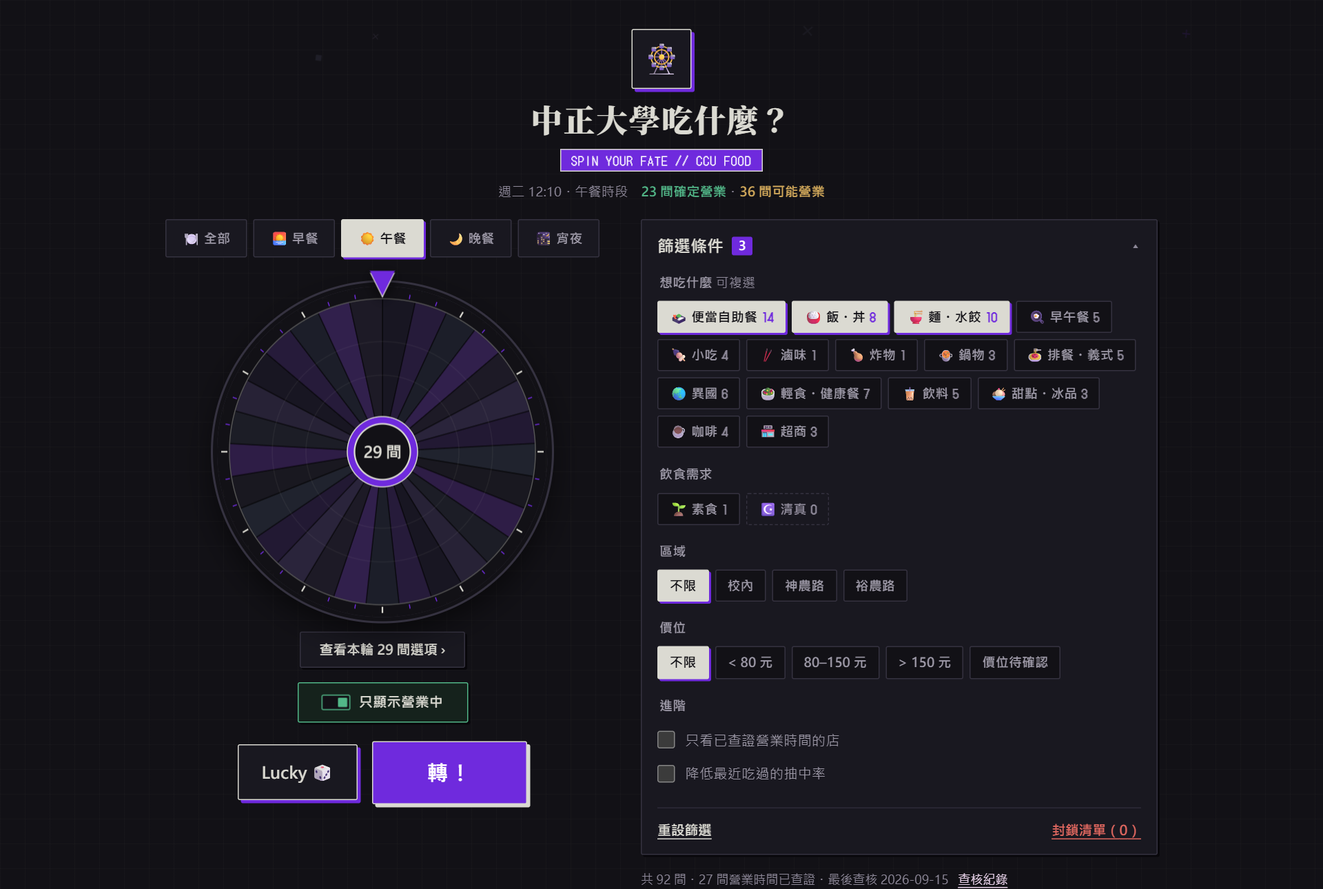
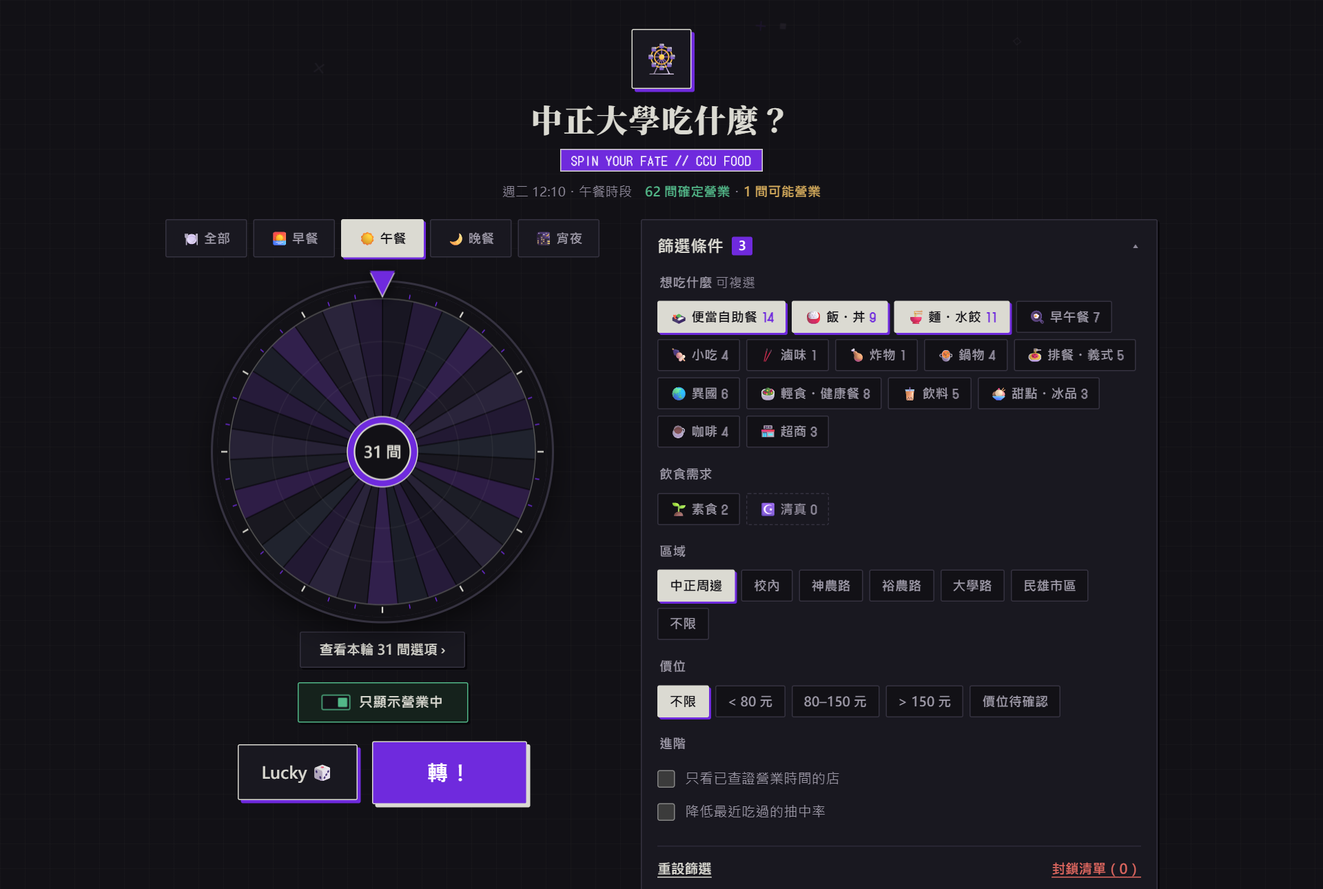
更新文件：查核紀錄、README、截圖與資料維護規則
- docs/restaurant-audit.md 改為 2026-10-21 版，記錄來源優先順序、
  範圍、匯入方法、例外與逐店結果；上一版移到 docs/archive/
- README 與 CLAUDE.md 反映新的區域、來源規則與餐車資料
- 重新產生截圖，新增流動餐車截圖

diff --git a/docs/restaurant-audit.md b/docs/restaurant-audit.md
@@ -1,0 +1,263 @@
+# 餐廳資料查核 — 2026-10-21
+
+共 204 間：中正周邊 92 間、民雄市區 112 間。其中 194 間的營業時間有來源（校方或店家公開頁面 23 間，Google 地圖商家資訊 171 間），10 間仍待確認。另外列出 4 台流動餐車，不放進轉盤。
+
+上一輪（2026-09-10）的逐店紀錄移到 [archive/restaurant-audit-2026-09-10.md](archive/restaurant-audit-2026-09-10.md)。
+
+## 來源優先順序
+
+1. **校方飲食資訊**（校內店家）
+2. **店家官網、品牌門市頁、店家粉專或 IG**
+3. **Google 地圖商家資訊**：前兩者沒有每週時段時才採用，結果卡上標明「Google 地圖商家資訊」並附商家頁連結
+4. **不採用**：外送平台時段（只代表外送服務時間）、沒有更新日期的聚合頁
+
+已經有校方或店家完整時刻表的店，這次沒有用 Google 覆蓋。品牌頁只確認店名地址、沒有每週時段的店（TEA'S、茶湯會、早叄、早安山丘），時段改用 Google，原本的品牌來源寫在 `verification.note`。
+
+## 範圍
+
+- **中正周邊**：校內、神農路、裕農路、大學路，就是原本的 92 間，這次重新查核時段與地址。轉盤預設只抽這一區。
+- **民雄市區**：以麥當勞嘉義民雄餐廳（建國路一段 18 號）為中心，方圓約 1 公里內、Google 評論至少 200 則的店。使用者選「民雄市區」或「不限」才會出現，中正周邊沒有店營業時，「一鍵放寬」也會提議擴大到市區。
+
+## 方法
+
+- 每間店打開 Google 地圖商家頁，讀取每週營業時間、地址、電話與是否「暫時關閉」，商家頁連結存成 `mapUrl`（`https://maps.google.com/?cid=…`）。
+- 時段轉成 `HH:MM-HH:MM`。凌晨打烊寫成跨夜時段（例如 `17:00-02:00`）；Google 把「17:00 開到隔天 11:00」拆成「00:00–11:00、17:00–24:00」兩段時，匯入時合併成 `17:00-11:00`，避免午夜被誤判為「即將打烊」。
+- `meals`（供餐時段）依時刻表重新推算：營業時間與早餐 06–10、午餐 11–14、晚餐 17–20、宵夜 21:30–02 任一時窗重疊至少 60 分鐘，就算有供應該餐。
+- 有完整時刻表的店移除 `legacyOpenHours`（舊的未查證時刻表），避免兩份資料不一致。
+- 民雄市區店家的價位：Google 有標示人均價格的才填（`expensive` 並附 `priceNote`），其餘標為「價位待確認」，不自行估計。
+
+## 例外與未解決
+
+- **比對錯誤，不採用**：佳豐生活美食坊（校內）在 Google 對到建國路的「嘉豐鐵板燒」，松屋食坊對到已暫時關閉的「阿松の店」。兩間仍以校方資料為準；嘉豐鐵板燒另外以民雄市區店家收錄。
+- **Google 沒有列出時段**：月亮與貓（看 IG cindy._.handmade）、仙草奶酪（看 IG ccu_grass_jelly）、小栗鼠cafe、八方雲集中大店、韓金湯匙（店名標示 24 Hrs 無人店，但沒有每週時刻表，只推估「可能營業」），以及市區的嘉鄉羊鵝肉、松林庭園咖啡簡餐、鶴茶樓、澎湃先生古早味蛋糕、可以可以地瓜球。這些店不會出現在「只顯示營業中」的轉盤上。
+- **暫時關閉，不收錄**：紅樓麻辣燙、金大尉 2.0 韓式鐵板燒烤肉吃到飽（市區候選）。
+- **來源衝突**：早安山丘中正大學店的品牌頁列 07:00–15:00，Google 列每天 07:00–14:30，採用較早的結束時間。
+- **區域更正**：伊卓島（裕農一街）改為裕農路；三街亭便當、123活力早餐屋、誠石火鍋、大學路生煎包改為大學路。
+- Google 時段由店家或使用者維護，可能比現況舊；臨時店休、寒暑假與國定假日仍以店家公告為準。
+
+## 流動餐車
+
+餐車沒有固定時刻表，所以不參與營業判斷、也不放進轉盤，只在側欄「流動餐車」列出常出現的位置、出攤規律與追蹤方式。資料來自 Dcard 中正大學板的討論，每台都附原文連結與貼文日期。
+
+- **烤雞肉飯餐車**（神農路）：中吃與大吃之間那條橫向小路；不固定，大約晚上 8、9 點出攤。來源：[Dcard 中正大學板](https://www.dcard.tw/f/ccu/p/261074960)，2026-03-13
+- **食良 臭豆腐麵線餐車**（神農路）：大吃楊家豆漿那一側的停車場；晚上出攤，通常週二、週六（有時週六改週五）。來源：[Dcard 中正大學板](https://www.dcard.tw/f/ccu/p/260446325)，2025-12-11
+- **關東煮餐車**（神農路）：學校大門附近的廣場、大吃全家旁；不固定。來源：[Dcard 中正大學板](https://www.dcard.tw/f/ccu/p/258577478)，2025-04-17
+- **現烤麵包餐車**（民雄市區）：阿吉麵攤旁（民雄市區）；不固定。來源：[Dcard 中正大學板](https://www.dcard.tw/f/ccu/p/258565460)，2025-04-16
+
+學生會不定期在校內舉辦「餐車日」，攤商名單公布在學生會 IG（[Dcard 討論](https://www.dcard.tw/f/ccu/p/260387131)）。活動性質不固定，沒有收錄成個別餐車。
+
+## 逐店結果
+
+### 中正周邊
+
+| ID | 店名 | 區域 | 本次結果 | 來源 |
+| --- | --- | --- | --- | --- |
+| 1 | 全家便利商店(活動中心店) | 校內 | 沿用校方／店家公開時段 | [中正大學飲食資訊](https://www.ccu.edu.tw/p/406-1000-25657,r3205.php?Lang=zh-tw) |
+| 2 | 微風蔬果 | 校內 | 沿用校方／店家公開時段 | [中正大學飲食資訊](https://www.ccu.edu.tw/p/406-1000-25657,r3205.php?Lang=zh-tw) |
+| 3 | 佳豐生活美食坊 | 校內 | 沿用校方／店家公開時段 | [中正大學飲食資訊](https://www.ccu.edu.tw/p/406-1000-25657,r3205.php?Lang=zh-tw) |
+| 4 | 婆媳麵食部 | 校內 | 沿用校方／店家公開時段 | [中正大學飲食資訊](https://www.ccu.edu.tw/p/406-1000-25657,r3205.php?Lang=zh-tw) |
+| 5 | 珍品餐館 | 校內 | 沿用校方／店家公開時段 | [中正大學飲食資訊](https://www.ccu.edu.tw/p/406-1000-25657,r3205.php?Lang=zh-tw) |
+| 6 | 路易莎咖啡(嘉義中正大學門市) | 校內 | 沿用校方／店家公開時段 | [中正大學飲食資訊](https://www.ccu.edu.tw/p/406-1000-25657,r3205.php?Lang=zh-tw) |
+| 7 | 湖畔沙龍(A3生活圈店) | 校內 | 沿用校方／店家公開時段 | [中正大學飲食資訊](https://www.ccu.edu.tw/p/406-1000-25657,r3205.php?Lang=zh-tw) |
+| 8 | 元氣早餐店 | 校內 | 沿用校方／店家公開時段 | [中正大學飲食資訊](https://www.ccu.edu.tw/p/406-1000-25657,r3205.php?Lang=zh-tw) |
+| 9 | 松屋食坊 | 校內 | 沿用校方／店家公開時段 | [中正大學飲食資訊](https://www.ccu.edu.tw/p/406-1000-25657,r3205.php?Lang=zh-tw) |
+| 10 | 食凡(EB1) | 校內 | 沿用校方／店家公開時段 | [中正大學飲食資訊](https://www.ccu.edu.tw/p/406-1000-25657,r3205.php?Lang=zh-tw) |
+| 11 | 全家便利商店(共同教室大樓店) | 校內 | 沿用校方／店家公開時段 | [中正大學飲食資訊](https://www.ccu.edu.tw/p/406-1000-25657,r3205.php?Lang=zh-tw) |
+| 12 | 全家便利商店(荊竹園/學人宿舍店) | 校內 | 沿用校方／店家公開時段 | [中正大學飲食資訊](https://www.ccu.edu.tw/p/406-1000-25657,r3205.php?Lang=zh-tw) |
+| 13 | 基地咖啡 | 校內 | 沿用校方／店家公開時段 | [中正大學飲食資訊](https://www.ccu.edu.tw/p/406-1000-25657,r3205.php?Lang=zh-tw) |
+| 14 | 楊家豆漿 | 神農路 | 已依 Google 地圖更新時刻表 | [Google 地圖商家資訊](https://maps.google.com/?cid=4481657162940129259) |
+| 15 | 鮮盛食堂 | 神農路 | 已依 Google 地圖更新時刻表 | [Google 地圖商家資訊](https://maps.google.com/?cid=12650057201675339670) |
+| 16 | 丼飽處x味自慢 | 神農路 | 沿用校方／店家公開時段 | [丼飽處店家網站](https://dongbaochu.webflow.io/) |
+| 17 | 牛筋伯爵 | 神農路 | 已依 Google 地圖更新時刻表 | [Google 地圖商家資訊](https://maps.google.com/?cid=16813179358634308817) |
+| 18 | ㄎㄎ韓食 | 神農路 | 已依 Google 地圖更新時刻表 | [Google 地圖商家資訊](https://maps.google.com/?cid=359410135548983401) |
+| 19 | 洪媽媽泰式簡餐 | 神農路 | 已依 Google 地圖更新時刻表 | [Google 地圖商家資訊](https://maps.google.com/?cid=290577023717785840) |
+| 20 | 西貢小吃 | 神農路 | 已依 Google 地圖更新時刻表 | [Google 地圖商家資訊](https://maps.google.com/?cid=643800234722093822) |
+| 21 | 薩克廚房 | 神農路 | 已依 Google 地圖更新時刻表 | [Google 地圖商家資訊](https://maps.google.com/?cid=7081079715265422926) |
+| 22 | 農閒時刻的粥 | 神農路 | 已依 Google 地圖更新時刻表 | [Google 地圖商家資訊](https://maps.google.com/?cid=15411751897971792404) |
+| 23 | 豪緯麵食館 | 神農路 | 已依 Google 地圖更新時刻表 | [Google 地圖商家資訊](https://maps.google.com/?cid=16862628929911731442) |
+| 24 | 地中海美食 | 神農路 | 已依 Google 地圖更新時刻表 | [Google 地圖商家資訊](https://maps.google.com/?cid=16735562923641391234) |
+| 25 | 中正海南雞飯 | 神農路 | 已依 Google 地圖更新時刻表 | [Google 地圖商家資訊](https://maps.google.com/?cid=6298370754352066164) |
+| 26 | 榕樹下古早味香菇肉羹麵 | 神農路 | 已依 Google 地圖更新時刻表 | [Google 地圖商家資訊](https://maps.google.com/?cid=535586748654286163) |
+| 27 | Amina's Kitchen | 神農路 | 已依 Google 地圖更新時刻表 | [Google 地圖商家資訊](https://maps.google.com/?cid=3824409005718822547) |
+| 28 | 越式炒泡麵 | 神農路 | 已依 Google 地圖更新時刻表 | [Google 地圖商家資訊](https://maps.google.com/?cid=15107057816747550653) |
+| 29 | 蘭姐手工水餃 | 神農路 | 已依 Google 地圖更新時刻表 | [Google 地圖商家資訊](https://maps.google.com/?cid=11006399432139251410) |
+| 30 | 嘉農小館 | 神農路 | 已依 Google 地圖更新時刻表 | [Google 地圖商家資訊](https://maps.google.com/?cid=9560331378579886293) |
+| 31 | 阿梅簡餐便當 | 神農路 | 已依 Google 地圖更新時刻表 | [Google 地圖商家資訊](https://maps.google.com/?cid=8675573065899011313) |
+| 32 | 渝香園簡餐便當 | 神農路 | 已依 Google 地圖更新時刻表 | [Google 地圖商家資訊](https://maps.google.com/?cid=10538879760333088249) |
+| 33 | 二口食堂 | 神農路 | 已依 Google 地圖更新時刻表 | [Google 地圖商家資訊](https://maps.google.com/?cid=12316446496011096797) |
+| 34 | 豪記滷味 | 神農路 | 已依 Google 地圖更新時刻表 | [Google 地圖商家資訊](https://maps.google.com/?cid=11475678776190246157) |
+| 35 | 溫家冷滷味 | 神農路 | 已依 Google 地圖更新時刻表 | [Google 地圖商家資訊](https://maps.google.com/?cid=10760419064564157884) |
+| 36 | 魯都香加熱式滷味 | 神農路 | 已依 Google 地圖更新時刻表 | [Google 地圖商家資訊](https://maps.google.com/?cid=13333018575458852206) |
+| 37 | 十畝田滷味 | 神農路 | 已依 Google 地圖更新時刻表 | [Google 地圖商家資訊](https://maps.google.com/?cid=13295422634066985352) |
+| 38 | 財哥鹹酥雞(神農路) | 神農路 | 已依 Google 地圖更新時刻表 | [Google 地圖商家資訊](https://maps.google.com/?cid=17462166941288612055) |
+| 39 | 中正雞場 | 神農路 | 已依 Google 地圖更新時刻表 | [Google 地圖商家資訊](https://maps.google.com/?cid=17914792469007424243) |
+| 40 | 海派鹽酥雞 | 神農路 | 已依 Google 地圖更新時刻表 | [Google 地圖商家資訊](https://maps.google.com/?cid=8141166164113762049) |
+| 41 | 蜂炸雞超級大雞排 | 神農路 | 已依 Google 地圖更新時刻表 | [Google 地圖商家資訊](https://maps.google.com/?cid=9316781803159605078) |
+| 42 | 懷念鹽酥雞 | 神農路 | 已依 Google 地圖更新時刻表 | [Google 地圖商家資訊](https://maps.google.com/?cid=14214458723826679645) |
+| 43 | 墨醬章魚燒 | 神農路 | 已依 Google 地圖更新時刻表 | [Google 地圖商家資訊](https://maps.google.com/?cid=16839558359542517975) |
+| 44 | Tea's原味(中正大學店) | 神農路 | 已依 Google 地圖更新時刻表 | [Google 地圖商家資訊](https://maps.google.com/?cid=1854872479724878930) |
+| 45 | 鮮茶道(中正大學店) | 神農路 | 已依 Google 地圖更新時刻表 | [Google 地圖商家資訊](https://maps.google.com/?cid=7656842165945212587) |
+| 46 | 七里香 | 神農路 | 已依 Google 地圖更新時刻表 | [Google 地圖商家資訊](https://maps.google.com/?cid=9208949190605389442) |
+| 47 | 果真現打真果汁 | 神農路 | 已依 Google 地圖更新時刻表 | [Google 地圖商家資訊](https://maps.google.com/?cid=12879399247674298494) |
+| 48 | 茶湯會(民雄神農店) | 神農路 | 已依 Google 地圖更新時刻表 | [Google 地圖商家資訊](https://maps.google.com/?cid=9226671162415239409) |
+| 49 | 巧味果汁 | 神農路 | 已依 Google 地圖更新時刻表 | [Google 地圖商家資訊](https://maps.google.com/?cid=2861193622320280657) |
+| 50 | 艾絲ice tea | 神農路 | 已依 Google 地圖更新時刻表 | [Google 地圖商家資訊](https://maps.google.com/?cid=5005635845565726547) |
+| 51 | Ink Hall 隱客廳 | 神農路 | 沿用校方／店家公開時段 | [隱客廳店家網站](https://inkhallweb.wixsite.com/ink-hall) |
+| 52 | 月亮與貓 | 神農路 | 店家仍在，時刻表待確認 | [Google 地圖](https://maps.google.com/?cid=5797080961604628816) |
+| 53 | 九九義式冰淇淋 | 神農路 | 已依 Google 地圖更新時刻表 | [Google 地圖商家資訊](https://maps.google.com/?cid=14052731332614006899) |
+| 54 | SmileJoyce微微笑手作坊 | 神農路 | 已依 Google 地圖更新時刻表 | [Google 地圖商家資訊](https://maps.google.com/?cid=14907368137919833599) |
+| 55 | 仙草奶酪 | 神農路 | 店家仍在，時刻表待確認 | [Google 地圖](https://maps.google.com/?cid=14780947907549034268) |
+| 56 | 伊卓島 | 裕農路 | 已依 Google 地圖更新時刻表 | [Google 地圖商家資訊](https://maps.google.com/?cid=14868473562978688015) |
+| 57 | 花漾廚房 | 神農路 | 已依 Google 地圖更新時刻表 | [Google 地圖商家資訊](https://maps.google.com/?cid=15745559371768556542) |
+| 58 | 早叄早午餐 | 神農路 | 已依 Google 地圖更新時刻表 | [Google 地圖商家資訊](https://maps.google.com/?cid=4270676679826670413) |
+| 59 | 豪豪吃早餐 | 神農路 | 已依 Google 地圖更新時刻表 | [Google 地圖商家資訊](https://maps.google.com/?cid=2103847027796314822) |
+| 60 | 翅炸鍋 | 神農路 | 已依 Google 地圖更新時刻表 | [Google 地圖商家資訊](https://maps.google.com/?cid=16875114789064964013) |
+| 61 | 阿湯哥脆皮湯包 | 神農路 | 已依 Google 地圖更新時刻表 | [Google 地圖商家資訊](https://maps.google.com/?cid=851805594366821925) |
+| 62 | 小羚風味小火鍋 | 神農路 | 沿用校方／店家公開時段 | [小羚店家介紹頁（文章日期2024年）](https://somlinlinlin.blogspot.com/) |
+| 63 | 意素佳 創意蔬食料理 | 神農路 | 已依 Google 地圖更新時刻表 | [Google 地圖商家資訊](https://maps.google.com/?cid=4896147075731655154) |
+| 64 | 蔬香是家 Veggie House | 神農路 | 已依 Google 地圖更新時刻表 | [Google 地圖商家資訊](https://maps.google.com/?cid=16482550232170811977) |
+| 65 | 全方味便當 | 神農路 | 已依 Google 地圖更新時刻表 | [Google 地圖商家資訊](https://maps.google.com/?cid=17536917204869090209) |
+| 66 | 三街亭便當 | 大學路 | 已依 Google 地圖更新時刻表 | [Google 地圖商家資訊](https://maps.google.com/?cid=17350594590262871980) |
+| 67 | 泰麻吉 | 神農路 | 已依 Google 地圖更新時刻表 | [Google 地圖商家資訊](https://maps.google.com/?cid=4865176585491613728) |
+| 68 | 紅樓極麵（南松食堂） | 神農路 | 已依 Google 地圖更新時刻表 | [Google 地圖商家資訊](https://maps.google.com/?cid=4927768513725141574) |
+| 69 | 小栗鼠cafe | 神農路 | 店家仍在，時刻表待確認 | [Google 地圖](https://maps.google.com/?cid=2929445119566553408) |
+| 70 | Yes厚切雞排 | 裕農路 | 沿用校方／店家公開時段 | [Yes厚切雞排店家網站](https://yeschicken.webflow.io/) |
+| 71 | i嘎嗶複合式餐廳 | 裕農路 | 已依 Google 地圖更新時刻表 | [Google 地圖商家資訊](https://maps.google.com/?cid=9386755770927592235) |
+| 72 | 瘋Beef排餐料理 | 裕農路 | 已依 Google 地圖更新時刻表 | [Google 地圖商家資訊](https://maps.google.com/?cid=8119956667969044110) |
+| 73 | 三米藍 | 裕農路 | 已依 Google 地圖更新時刻表 | [Google 地圖商家資訊](https://maps.google.com/?cid=8627273990673793122) |
+| 74 | 8鍋臭臭鍋（民雄中正店） | 裕農路 | 已依 Google 地圖更新時刻表 | [Google 地圖商家資訊](https://maps.google.com/?cid=14917669133717340800) |
+| 75 | 即食樂複合式餐廳 | 裕農路 | 已依 Google 地圖更新時刻表 | [Google 地圖商家資訊](https://maps.google.com/?cid=4781897612083683398) |
+| 76 | 韓金湯匙(嘉義中正店) | 裕農路 | 店家仍在，時刻表待確認 | [Google 地圖](https://maps.google.com/?cid=933657022504576761) |
+| 77 | A-bao裕農店 | 裕農路 | 已依 Google 地圖更新時刻表 | [Google 地圖商家資訊](https://maps.google.com/?cid=8013746830513432784) |
+| 78 | 侯記中式早餐 | 裕農路 | 已依 Google 地圖更新時刻表 | [Google 地圖商家資訊](https://maps.google.com/?cid=18153040571393501304) |
+| 79 | 123活力早餐屋 | 大學路 | 已依 Google 地圖更新時刻表 | [Google 地圖商家資訊](https://maps.google.com/?cid=423231136257563971) |
+| 80 | 花圓巧芋 | 裕農路 | 已依 Google 地圖更新時刻表 | [Google 地圖商家資訊](https://maps.google.com/?cid=15864892864337445159) |
+| 81 | 誠石火鍋 | 大學路 | 已依 Google 地圖更新時刻表 | [Google 地圖商家資訊](https://maps.google.com/?cid=3740078508359235342) |
+| 82 | 佳豐生活美食(共同教室餐盒供應處) | 校內 | 沿用校方／店家公開時段 | [中正大學飲食資訊](https://www.ccu.edu.tw/p/406-1000-25657,r3205.php?Lang=zh-tw) |
+| 83 | 食凡(共同教室餐盒供應處) | 校內 | 沿用校方／店家公開時段 | [中正大學飲食資訊](https://www.ccu.edu.tw/p/406-1000-25657,r3205.php?Lang=zh-tw) |
+| 84 | 早安山丘(中正大學店) | 神農路 | 已依 Google 地圖更新時刻表 | [Google 地圖商家資訊](https://maps.google.com/?cid=15903999990629906991) |
+| 85 | 中正大四喜牛肉麵(旗艦店) | 神農路 | 沿用校方／店家公開時段 | [店家官方Facebook](https://www.facebook.com/ccubig4/) |
+| 86 | 琪琪健康舖 | 神農路 | 沿用校方／店家公開時段 | [琪琪健康舖官方網站](https://www.gigishop.com.tw/) |
+| 87 | Simple Fit 簡單瘦 | 裕農路 | 沿用校方／店家公開時段 | [Simple Fit 店家Facebook](https://www.facebook.com/simplefit.ccu/) |
+| 88 | 大學路生煎包 | 大學路 | 沿用校方／店家公開時段 | [Dcard中正板學生探店實測紀錄](https://www.dcard.tw/f/ccu) |
+| 89 | 八方雲集(嘉義中大店) | 神農路 | 店家仍在，時刻表待確認 | [Google 地圖](https://maps.google.com/?cid=3116092050714949103) |
+| 90 | A咖美食平價牛排 | 神農路 | 已依 Google 地圖更新時刻表 | [Google 地圖商家資訊](https://maps.google.com/?cid=1909540637641087420) |
+| 91 | Chill bowl | 神農路 | 已依 Google 地圖更新時刻表 | [Google 地圖商家資訊](https://maps.google.com/?cid=7997410405676832310) |
+| 92 | 布格早餐 | 神農路 | 已依 Google 地圖更新時刻表 | [Google 地圖商家資訊](https://maps.google.com/?cid=2759682806429642200) |
+
+### 民雄市區（Google 評論數由多到少）
+
+| ID | 店名 | 區域 | 本次結果 | 來源 |
+| --- | --- | --- | --- | --- |
+| 93 | 正宗民雄鵝肉亭 | 民雄市區 | 新增；Google 地圖時刻表 | [Google 地圖商家資訊](https://maps.google.com/?cid=1017516326307885442) |
+| 94 | 星巴克（嘉義民雄門市） | 民雄市區 | 新增；Google 地圖時刻表 | [Google 地圖商家資訊](https://maps.google.com/?cid=11500106240791071582) |
+| 95 | 初八拉麵（民雄店） | 民雄市區 | 新增；Google 地圖時刻表 | [Google 地圖商家資訊](https://maps.google.com/?cid=6680387901932002578) |
+| 96 | 羅記民雄肉包 | 民雄市區 | 新增；Google 地圖時刻表 | [Google 地圖商家資訊](https://maps.google.com/?cid=9956780088588939552) |
+| 97 | 麥當勞（嘉義民雄餐廳） | 民雄市區 | 新增；Google 地圖時刻表 | [Google 地圖商家資訊](https://maps.google.com/?cid=4881734082875626543) |
+| 98 | 龍坐鐵板燒 | 民雄市區 | 新增；Google 地圖時刻表 | [Google 地圖商家資訊](https://maps.google.com/?cid=11568657664141941874) |
+| 99 | 頂好馨平價鍋物（民雄店） | 民雄市區 | 新增；Google 地圖時刻表 | [Google 地圖商家資訊](https://maps.google.com/?cid=17889734571814879802) |
+| 100 | 花亭壽司專賣 | 民雄市區 | 新增；Google 地圖時刻表 | [Google 地圖商家資訊](https://maps.google.com/?cid=1950630094452245379) |
+| 101 | 大埔鐵板燒（嘉義民雄店） | 民雄市區 | 新增；Google 地圖時刻表 | [Google 地圖商家資訊](https://maps.google.com/?cid=6272151105845357482) |
+| 102 | 鴻澄鐵板燒（民雄分局） | 民雄市區 | 新增；Google 地圖時刻表 | [Google 地圖商家資訊](https://maps.google.com/?cid=1457903322018182303) |
+| 103 | 民雄鵝肉太郎老店 | 民雄市區 | 新增；Google 地圖時刻表 | [Google 地圖商家資訊](https://maps.google.com/?cid=10551688870783344115) |
+| 104 | 聖保羅烘焙花園（民雄店） | 民雄市區 | 新增；Google 地圖時刻表 | [Google 地圖商家資訊](https://maps.google.com/?cid=16352703468775505561) |
+| 105 | 民雄鵝肉町 | 民雄市區 | 新增；Google 地圖時刻表 | [Google 地圖商家資訊](https://maps.google.com/?cid=12800551086701640351) |
+| 106 | 民雄鵝肉慶 | 民雄市區 | 新增；Google 地圖時刻表 | [Google 地圖商家資訊](https://maps.google.com/?cid=2869133538860737537) |
+| 107 | 湯師父美味鍋 24H（嘉義民雄） | 民雄市區 | 新增；Google 地圖時刻表 | [Google 地圖商家資訊](https://maps.google.com/?cid=1883647334459202772) |
+| 108 | 濟濟一堂 | 民雄市區 | 新增；Google 地圖時刻表 | [Google 地圖商家資訊](https://maps.google.com/?cid=4469072423510578558) |
+| 109 | 爭鮮PLUS（民雄店） | 民雄市區 | 新增；Google 地圖時刻表 | [Google 地圖商家資訊](https://maps.google.com/?cid=10233614346422986703) |
+| 110 | 豚將日本拉麵（民雄店） | 民雄市區 | 新增；Google 地圖時刻表 | [Google 地圖商家資訊](https://maps.google.com/?cid=14508378083123463160) |
+| 111 | 民雄阿君鵝肉 | 民雄市區 | 新增；Google 地圖時刻表 | [Google 地圖商家資訊](https://maps.google.com/?cid=12296638709715656083) |
+| 112 | 松阪家日式料理 | 民雄市區 | 新增；Google 地圖時刻表 | [Google 地圖商家資訊](https://maps.google.com/?cid=9393105839591211803) |
+| 113 | 渡對 | 民雄市區 | 新增；Google 地圖時刻表 | [Google 地圖商家資訊](https://maps.google.com/?cid=3348985700892126308) |
+| 114 | 六扇門時尚湯鍋（民雄保生店） | 民雄市區 | 新增；Google 地圖時刻表 | [Google 地圖商家資訊](https://maps.google.com/?cid=17080750449594129101) |
+| 115 | 五花馬水餃館（民雄門市） | 民雄市區 | 新增；Google 地圖時刻表 | [Google 地圖商家資訊](https://maps.google.com/?cid=16949654987039543809) |
+| 116 | 民雄大慶鵝肉 | 民雄市區 | 新增；Google 地圖時刻表 | [Google 地圖商家資訊](https://maps.google.com/?cid=5759698418093993973) |
+| 117 | 嘉鄉羊鵝肉 | 民雄市區 | 新增；時刻表待確認 | [Google 地圖](https://maps.google.com/?cid=4056807606331550755) |
+| 118 | 民雄照記芋圓 | 民雄市區 | 新增；Google 地圖時刻表 | [Google 地圖商家資訊](https://maps.google.com/?cid=8996626285991541812) |
+| 119 | 民雄正港鴨肉羹 | 民雄市區 | 新增；Google 地圖時刻表 | [Google 地圖商家資訊](https://maps.google.com/?cid=5794259666302702251) |
+| 120 | 早到晚到（民雄店） | 民雄市區 | 新增；Google 地圖時刻表 | [Google 地圖商家資訊](https://maps.google.com/?cid=2327959273052344336) |
+| 121 | 布札諾義式披薩屋 | 民雄市區 | 新增；Google 地圖時刻表 | [Google 地圖商家資訊](https://maps.google.com/?cid=3778540937631230370) |
+| 122 | 民雄掽皮切仔麵 | 民雄市區 | 新增；Google 地圖時刻表 | [Google 地圖商家資訊](https://maps.google.com/?cid=13848912946600453670) |
+| 123 | 韓楓館 | 民雄市區 | 新增；Google 地圖時刻表 | [Google 地圖商家資訊](https://maps.google.com/?cid=13908569289509837974) |
+| 124 | 米澤鍋物 | 民雄市區 | 新增；Google 地圖時刻表 | [Google 地圖商家資訊](https://maps.google.com/?cid=3466671817017656201) |
+| 125 | 民雄松林庭園咖啡簡餐 | 民雄市區 | 新增；時刻表待確認 | [Google 地圖](https://maps.google.com/?cid=12166070429307498149) |
+| 126 | 韓山寺平價韓式料理（民雄保生店） | 民雄市區 | 新增；Google 地圖時刻表 | [Google 地圖商家資訊](https://maps.google.com/?cid=1476212351481630900) |
+| 127 | 俗擱大碗小吃店 | 民雄市區 | 新增；Google 地圖時刻表 | [Google 地圖商家資訊](https://maps.google.com/?cid=15510394225165173874) |
+| 128 | 鴨沐農烤鴨專賣店 | 民雄市區 | 新增；Google 地圖時刻表 | [Google 地圖商家資訊](https://maps.google.com/?cid=3611459230645982032) |
+| 129 | 歡樂牛排（民雄店） | 民雄市區 | 新增；Google 地圖時刻表 | [Google 地圖商家資訊](https://maps.google.com/?cid=4806600655141559991) |
+| 130 | 京品北方麵食館 | 民雄市區 | 新增；Google 地圖時刻表 | [Google 地圖商家資訊](https://maps.google.com/?cid=14326756874767455886) |
+| 131 | 二吉軒豆漿（嘉義民雄店） | 民雄市區 | 新增；Google 地圖時刻表 | [Google 地圖商家資訊](https://maps.google.com/?cid=600907503174487429) |
+| 132 | 阿吉麵攤 | 民雄市區 | 新增；Google 地圖時刻表 | [Google 地圖商家資訊](https://maps.google.com/?cid=673757068151768358) |
+| 133 | BB SUGAR 逼逼堂碳烤甜甜圈 | 民雄市區 | 新增；Google 地圖時刻表 | [Google 地圖商家資訊](https://maps.google.com/?cid=5770936638414425506) |
+| 134 | 川沐燒肉 | 民雄市區 | 新增；Google 地圖時刻表 | [Google 地圖商家資訊](https://maps.google.com/?cid=6842728109745979480) |
+| 135 | 尋光小徑義式冰淇淋 | 民雄市區 | 新增；Google 地圖時刻表 | [Google 地圖商家資訊](https://maps.google.com/?cid=12514239163440455822) |
+| 136 | A-bao house（民雄東榮店） | 民雄市區 | 新增；Google 地圖時刻表 | [Google 地圖商家資訊](https://maps.google.com/?cid=13011056954378267827) |
+| 137 | 一魂拉麵（民雄店） | 民雄市區 | 新增；Google 地圖時刻表 | [Google 地圖商家資訊](https://maps.google.com/?cid=2705144939368786257) |
+| 138 | 阜壽司 | 民雄市區 | 新增；Google 地圖時刻表 | [Google 地圖商家資訊](https://maps.google.com/?cid=18352489789144715760) |
+| 139 | 民雄扁食意麵 | 民雄市區 | 新增；Google 地圖時刻表 | [Google 地圖商家資訊](https://maps.google.com/?cid=16126158746715643198) |
+| 140 | 慢靈魂咖啡館 | 民雄市區 | 新增；Google 地圖時刻表 | [Google 地圖商家資訊](https://maps.google.com/?cid=4952600385108057134) |
+| 141 | 小燈步道 | 民雄市區 | 新增；Google 地圖時刻表 | [Google 地圖商家資訊](https://maps.google.com/?cid=13194518152211701696) |
+| 142 | 金御咖哩 | 民雄市區 | 新增；Google 地圖時刻表 | [Google 地圖商家資訊](https://maps.google.com/?cid=15153325492695206403) |
+| 143 | 金品早午餐 | 民雄市區 | 新增；Google 地圖時刻表 | [Google 地圖商家資訊](https://maps.google.com/?cid=979771511915136667) |
+| 144 | 拉亞漢堡（民雄文化店） | 民雄市區 | 新增；Google 地圖時刻表 | [Google 地圖商家資訊](https://maps.google.com/?cid=12304389703183040407) |
+| 145 | 阮氏料理 | 民雄市區 | 新增；Google 地圖時刻表 | [Google 地圖商家資訊](https://maps.google.com/?cid=15018776380717470546) |
+| 146 | 飯丸屋（民雄店） | 民雄市區 | 新增；Google 地圖時刻表 | [Google 地圖商家資訊](https://maps.google.com/?cid=17368158889659612172) |
+| 147 | 8鍋臭臭鍋（民雄店） | 民雄市區 | 新增；Google 地圖時刻表 | [Google 地圖商家資訊](https://maps.google.com/?cid=7665357084269234366) |
+| 148 | PC's 蔬房 | 民雄市區 | 新增；Google 地圖時刻表 | [Google 地圖商家資訊](https://maps.google.com/?cid=919237014037504416) |
+| 149 | Long Stay 現泡茶（龍喜嗲民雄總店） | 民雄市區 | 新增；Google 地圖時刻表 | [Google 地圖商家資訊](https://maps.google.com/?cid=9921823198365441867) |
+| 150 | 樂趣 AT FUN | 民雄市區 | 新增；Google 地圖時刻表 | [Google 地圖商家資訊](https://maps.google.com/?cid=12423573612434247563) |
+| 151 | 偉仔炸蛋蔥油餅 | 民雄市區 | 新增；Google 地圖時刻表 | [Google 地圖商家資訊](https://maps.google.com/?cid=1579198923272235362) |
+| 152 | 伊豆壽司 | 民雄市區 | 新增；Google 地圖時刻表 | [Google 地圖商家資訊](https://maps.google.com/?cid=12197897950149242185) |
+| 153 | 福星藥頭排骨 | 民雄市區 | 新增；Google 地圖時刻表 | [Google 地圖商家資訊](https://maps.google.com/?cid=13438518227590288569) |
+| 154 | 草魚的店 | 民雄市區 | 新增；Google 地圖時刻表 | [Google 地圖商家資訊](https://maps.google.com/?cid=2517100902269667863) |
+| 155 | 阿寬的店 | 民雄市區 | 新增；Google 地圖時刻表 | [Google 地圖商家資訊](https://maps.google.com/?cid=10089454488615582170) |
+| 156 | 玖凉冰品・咖哩專賣店 | 民雄市區 | 新增；Google 地圖時刻表 | [Google 地圖商家資訊](https://maps.google.com/?cid=13049822650099328943) |
+| 157 | 夯仔內牛肉麵食館（嘉義民雄店） | 民雄市區 | 新增；Google 地圖時刻表 | [Google 地圖商家資訊](https://maps.google.com/?cid=11157556922304763059) |
+| 158 | MAMA 早午餐廚房 | 民雄市區 | 新增；Google 地圖時刻表 | [Google 地圖商家資訊](https://maps.google.com/?cid=362198606610057669) |
+| 159 | 民雄鴨對寶烤鴨專賣店 | 民雄市區 | 新增；Google 地圖時刻表 | [Google 地圖商家資訊](https://maps.google.com/?cid=1386275428628595728) |
+| 160 | 宅豆花甜品專賣店（民雄店） | 民雄市區 | 新增；Google 地圖時刻表 | [Google 地圖商家資訊](https://maps.google.com/?cid=1400923342394564485) |
+| 161 | 50嵐（嘉義民雄店） | 民雄市區 | 新增；Google 地圖時刻表 | [Google 地圖商家資訊](https://maps.google.com/?cid=13371553326872804500) |
+| 162 | 古丁原味品茶館（民雄店） | 民雄市區 | 新增；Google 地圖時刻表 | [Google 地圖商家資訊](https://maps.google.com/?cid=5559327819188462760) |
+| 163 | 百年自助餐 | 民雄市區 | 新增；Google 地圖時刻表 | [Google 地圖商家資訊](https://maps.google.com/?cid=609070545768633997) |
+| 164 | 河馬先生甜點烘焙坊 | 民雄市區 | 新增；Google 地圖時刻表 | [Google 地圖商家資訊](https://maps.google.com/?cid=7953935247549454190) |
+| 165 | 紅葉牛排 | 民雄市區 | 新增；Google 地圖時刻表 | [Google 地圖商家資訊](https://maps.google.com/?cid=17576668973534323235) |
+| 166 | 老地方廚房 | 民雄市區 | 新增；Google 地圖時刻表 | [Google 地圖商家資訊](https://maps.google.com/?cid=9774985660171701926) |
+| 167 | 早安山丘（民雄保生店） | 民雄市區 | 新增；Google 地圖時刻表 | [Google 地圖商家資訊](https://maps.google.com/?cid=169475355877621493) |
+| 168 | 嘉豐鐵板燒 | 民雄市區 | 新增；Google 地圖時刻表 | [Google 地圖商家資訊](https://maps.google.com/?cid=6038826001334107482) |
+| 169 | Coffeeology 咖啡學 | 民雄市區 | 新增；Google 地圖時刻表 | [Google 地圖商家資訊](https://maps.google.com/?cid=9340746596823896882) |
+| 170 | 岐也紅茶（民雄店） | 民雄市區 | 新增；Google 地圖時刻表 | [Google 地圖商家資訊](https://maps.google.com/?cid=4350787319125371684) |
+| 171 | 一柳涮涮鍋 | 民雄市區 | 新增；Google 地圖時刻表 | [Google 地圖商家資訊](https://maps.google.com/?cid=10691761478386317611) |
+| 172 | 御繕早ㄉㄥˋ店 | 民雄市區 | 新增；Google 地圖時刻表 | [Google 地圖商家資訊](https://maps.google.com/?cid=5713657166488012153) |
+| 173 | 鶴茶樓（嘉義民雄店） | 民雄市區 | 新增；時刻表待確認 | [Google 地圖](https://maps.google.com/?cid=12903407237083958591) |
+| 174 | 野餐，日。健康餐盒（民雄店） | 民雄市區 | 新增；Google 地圖時刻表 | [Google 地圖商家資訊](https://maps.google.com/?cid=18421768068580303735) |
+| 175 | 85度C（嘉義民雄店） | 民雄市區 | 新增；Google 地圖時刻表 | [Google 地圖商家資訊](https://maps.google.com/?cid=1747780895553696939) |
+| 176 | 舊是這一家鹽酥雞 | 民雄市區 | 新增；Google 地圖時刻表 | [Google 地圖商家資訊](https://maps.google.com/?cid=13948714910281461111) |
+| 177 | 巴豆夭（民雄建國店） | 民雄市區 | 新增；Google 地圖時刻表 | [Google 地圖商家資訊](https://maps.google.com/?cid=16337526758487956830) |
+| 178 | Bella 貝拉甜品專賣（民雄店） | 民雄市區 | 新增；Google 地圖時刻表 | [Google 地圖商家資訊](https://maps.google.com/?cid=593015386506623145) |
+| 179 | 民雄帕仕噠 PASTA 義式餐飲 | 民雄市區 | 新增；Google 地圖時刻表 | [Google 地圖商家資訊](https://maps.google.com/?cid=8343510698638890942) |
+| 180 | 廟街水餃 | 民雄市區 | 新增；Google 地圖時刻表 | [Google 地圖商家資訊](https://maps.google.com/?cid=6545766075878184918) |
+| 181 | 民雄老莊鵝肉 | 民雄市區 | 新增；Google 地圖時刻表 | [Google 地圖商家資訊](https://maps.google.com/?cid=3476605849811044571) |
+| 182 | 隔壁宵夜（民雄店） | 民雄市區 | 新增；Google 地圖時刻表 | [Google 地圖商家資訊](https://maps.google.com/?cid=100970064293894367) |
+| 183 | 藍盤子早午餐（民雄復興店） | 民雄市區 | 新增；Google 地圖時刻表 | [Google 地圖商家資訊](https://maps.google.com/?cid=4642539750322578213) |
+| 184 | 香港梁記燒臘 | 民雄市區 | 新增；Google 地圖時刻表 | [Google 地圖商家資訊](https://maps.google.com/?cid=16811287549113513372) |
+| 185 | 霸味薑母鴨（嘉義民雄店） | 民雄市區 | 新增；Google 地圖時刻表 | [Google 地圖商家資訊](https://maps.google.com/?cid=18200882012112603381) |
+| 186 | 阿立鱔魚麵 | 民雄市區 | 新增；Google 地圖時刻表 | [Google 地圖商家資訊](https://maps.google.com/?cid=3896180898433561679) |
+| 187 | House Cafe 好鄰咖啡 | 民雄市區 | 新增；Google 地圖時刻表 | [Google 地圖商家資訊](https://maps.google.com/?cid=17806646697601704144) |
+| 188 | 煮丼一点 | 民雄市區 | 新增；Google 地圖時刻表 | [Google 地圖商家資訊](https://maps.google.com/?cid=11711225710896275862) |
+| 189 | 民雄廟口碳烤雞排 | 民雄市區 | 新增；Google 地圖時刻表 | [Google 地圖商家資訊](https://maps.google.com/?cid=17936355871428552377) |
+| 190 | 鬍鬚豆豆 | 民雄市區 | 新增；Google 地圖時刻表 | [Google 地圖商家資訊](https://maps.google.com/?cid=10438023584800258414) |
+| 191 | 迷客夏（嘉義民雄店） | 民雄市區 | 新增；Google 地圖時刻表 | [Google 地圖商家資訊](https://maps.google.com/?cid=5626117901297425375) |
+| 192 | 有間鍋物 | 民雄市區 | 新增；Google 地圖時刻表 | [Google 地圖商家資訊](https://maps.google.com/?cid=11988882472848087644) |
+| 193 | 胖老爹美式炸雞（民雄店） | 民雄市區 | 新增；Google 地圖時刻表 | [Google 地圖商家資訊](https://maps.google.com/?cid=3755313321535764457) |
+| 194 | 九湯屋日本拉麵（嘉義民雄店） | 民雄市區 | 新增；Google 地圖時刻表 | [Google 地圖商家資訊](https://maps.google.com/?cid=1380914367536917000) |
+| 195 | 藝鍋物（民雄店） | 民雄市區 | 新增；Google 地圖時刻表 | [Google 地圖商家資訊](https://maps.google.com/?cid=15240817397512479525) |
+| 196 | 民雄佑壽司 | 民雄市區 | 新增；Google 地圖時刻表 | [Google 地圖商家資訊](https://maps.google.com/?cid=3784157799481942850) |
+| 197 | 好家園自助餐（民雄店） | 民雄市區 | 新增；Google 地圖時刻表 | [Google 地圖商家資訊](https://maps.google.com/?cid=8754441854127571072) |
+| 198 | 澎湃先生古早味蛋糕（民雄店） | 民雄市區 | 新增；時刻表待確認 | [Google 地圖](https://maps.google.com/?cid=8035099991228492032) |
+| 199 | 木村御飯糰&可樂餅 | 民雄市區 | 新增；Google 地圖時刻表 | [Google 地圖商家資訊](https://maps.google.com/?cid=9815716828360371621) |
+| 200 | 小媽咪早午餐 | 民雄市區 | 新增；Google 地圖時刻表 | [Google 地圖商家資訊](https://maps.google.com/?cid=15752022250989716878) |
+| 201 | 可以可以地瓜球（民雄店） | 民雄市區 | 新增；時刻表待確認 | [Google 地圖](https://maps.google.com/?cid=17810148637178450898) |
+| 202 | 民雄薑母鴨羊肉爐 | 民雄市區 | 新增；Google 地圖時刻表 | [Google 地圖商家資訊](https://maps.google.com/?cid=10291245837419555792) |
+| 203 | 安和1號食堂 | 民雄市區 | 新增；Google 地圖時刻表 | [Google 地圖商家資訊](https://maps.google.com/?cid=7610658417801640236) |
+| 204 | 甘泉魚麵（嘉義民雄店） | 民雄市區 | 新增；Google 地圖時刻表 | [Google 地圖商家資訊](https://maps.google.com/?cid=13914044072549767250) |

diff --git a/.claude/skills/add-restaurant.md b/.claude/skills/add-restaurant.md
@@ -14,12 +14,14 @@ description: Add a new restaurant to the Food Roulette database (data/restaurant
 - **tags**：想吃什麼標籤，必須是 `js/core/catalog.js` 的 `TAGS` 之一，第一個標籤決定顯示的 emoji
 - **meals**：`breakfast` | `lunch` | `dinner` | `latenight` 的子集合
 - **price_range**：`cheap`（< 80）| `medium`（80–150）| `expensive`（> 150）| `unknown`
-- **location**：`校內` | `神農路` | `裕農路`
-- **note**：簡短描述；有的話也填 **address**、**phone**
+- **location**：`校內` | `神農路` | `裕農路` | `大學路` | `民雄市區`（前四個是「中正周邊」，轉盤預設只抽這些）
+- **note**：簡短描述；有的話也填 **address**、**phone**、**mapUrl**（Google 地圖商家頁，`https://maps.google.com/?cid=…`）
 - **營業時間**：每週七天 `mon`–`sun` 都要有值，值可以是 `"11:00-14:00、17:00-20:00"`、`"休息"`、`"24小時營業"` 或 `null`（未知）
-  - 有公開來源（校方頁面、店家官網或粉專）→ 填 `openHours`，並寫入 `verification: { status: "sourced", source: "https://…", label, checkedAt: "YYYY-MM-DD" }`
+  - 有公開來源 → 填 `openHours`，並寫入 `verification: { status: "sourced", source: "https://…", label, checkedAt: "YYYY-MM-DD" }`。來源優先順序：校方頁面 → 店家官網／粉專／IG → Google 地圖商家資訊（`label` 寫「Google 地圖商家資訊」，`source` 用商家頁）
+  - 凌晨打烊寫成跨夜時段，例如 `17:00-02:00`；Google 把整晚營業拆成「00:00–11:00、17:00–24:00」時，合併成 `17:00-11:00`
   - 沒有來源 → `openHours` 七天都填 `null`，時間放進 `legacyOpenHours`，並設 `verification: { status: "unconfirmed" }`
-  - 外送平台與聚合地圖的時段**不算**來源
+  - 外送平台的時段**不算**來源（那是外送服務時間）
+- 沒有固定時段的流動餐車不要放這裡，改放 `data/trucks.json`（型別 `FoodTruck`），附上來源貼文與日期
 
 ## 2. ID
 

diff --git a/CLAUDE.md b/CLAUDE.md
@@ -27,8 +27,12 @@
 ## 資料
 
 - `data/restaurants.json`：新增餐廳時 ID 取最大值加 1，`tags` 必須是 `catalog.js` 裡定義的標籤。
-- 有來源的時段放 `openHours`，並在 `verification` 附上 https 來源與查閱日；沒有來源的放 `legacyOpenHours`。
-- 不要用外送平台或聚合地圖的時段當作已查證資料。查核過程記錄在 `docs/restaurant-audit.md`。
+- 區域：`校內`、`神農路`、`裕農路`、`大學路` 合稱「中正周邊」（`NEARBY_AREAS`），是轉盤的預設範圍；`民雄市區` 要使用者自己選。
+- 有來源的時段放 `openHours`，並在 `verification` 附上 https 來源、`label` 與查閱日；沒有來源的放 `legacyOpenHours`。
+- 來源優先順序：校方飲食資訊 → 店家官網、品牌門市頁、粉專或 IG → Google 地圖商家資訊。用 Google 時，`label` 寫「Google 地圖商家資訊」，商家頁存在 `mapUrl` 與 `verification.source`。
+- 外送平台的時段只代表外送服務時間，不要當作營業時間。
+- 流動餐車放 `data/trucks.json`（型別 `FoodTruck`）：沒有固定時段，不進轉盤，要附來源貼文與日期。
+- 查核過程記錄在 `docs/restaurant-audit.md`。
 
 ## 完成前
 
